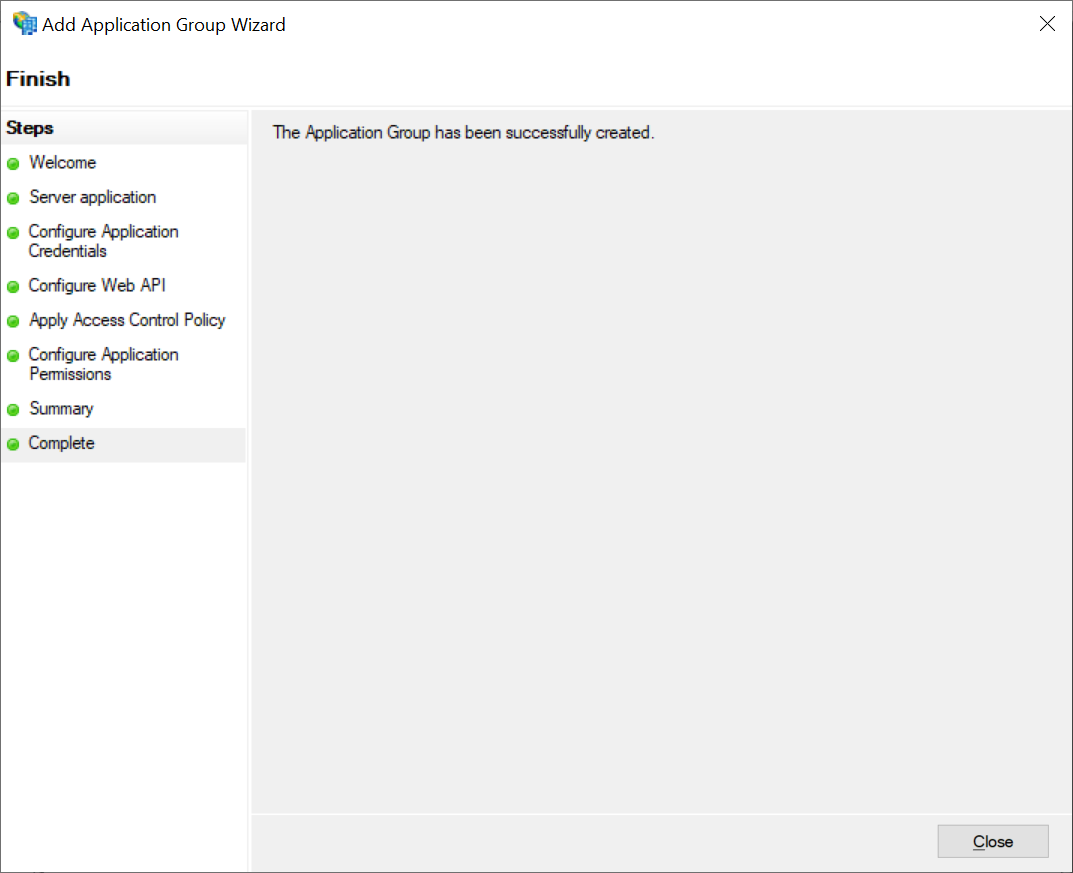
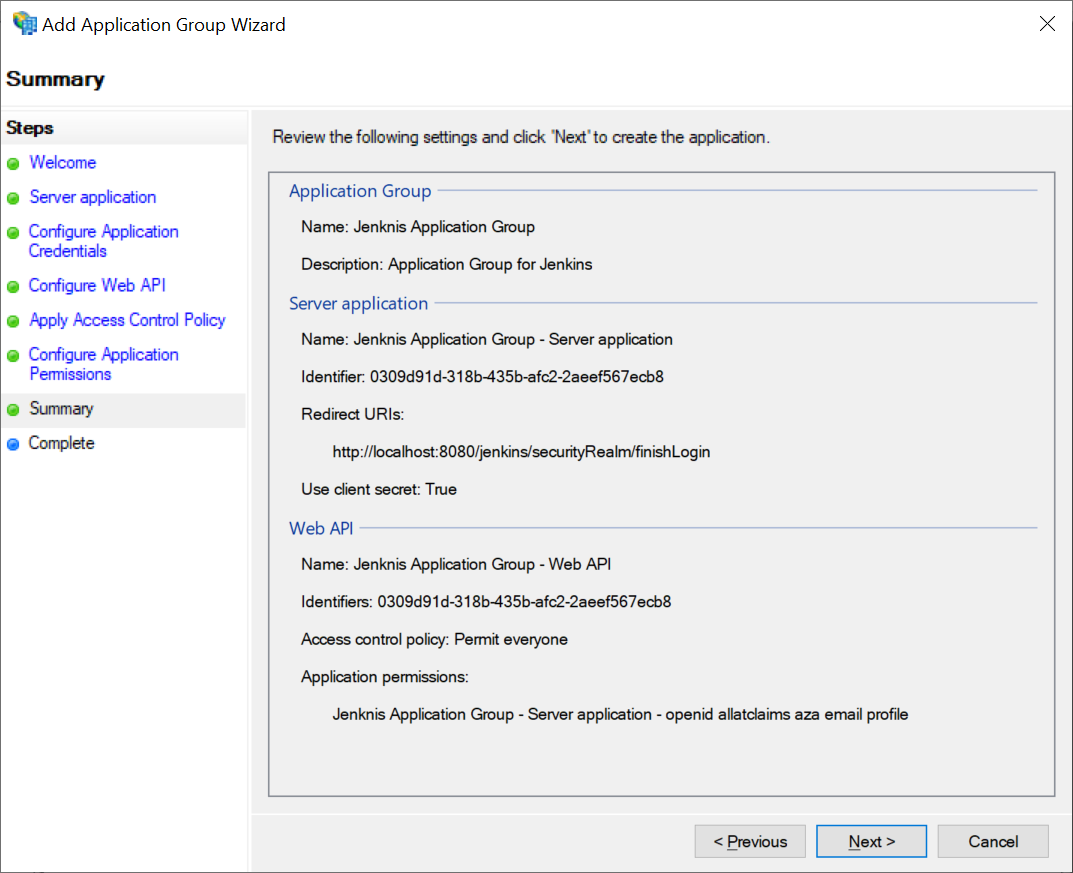
Complete the Docs

diff --git a/docs/developer/AD-FS/setup-test-instance.md b/docs/developer/AD-FS/setup-test-instance.md
@@ -37,7 +37,7 @@ This guide will walk through the setup of Windows 2022 using an ISO as it is the
 
 Congratulations, Windows Server 2022 is now installed!
 
-### Install Services
+## Install Services
 
 AD FS is not Active Directory (AD), however we will use AD as the authentication provider for AD FS so it and DNS will be installed here as well as AD FS.
 
@@ -59,29 +59,7 @@ AD FS is not Active Directory (AD), however we will use AD as the authentication
 15. The installation will now start. ![installing](setup-images/roles_installing.png)
 16. Wait for the installation to complete, you can then close the wizard. ![alt text](setup-images/roles_install-complete.png)
 
-### Configure DNS 
-
-> **Note**
-> probably not needed!
-
-
-DNS needs to be configured in order to be able to configure AD DS.
-For this example we will be using `adfs.test` as the domain.
-
-1. Launch the DNS Manager by selectting Tools -> DNS in the Server Manager. ![Launch DNS](dns-images/launch-dns-manager.png)
-2. In DNS Manager select "Action" -> "New Zone". ![Create New Zone](dns-images/new-zone.png)
-3. In the wizard click "Next" to continue. ![Wizard Start](dns-images/wizarard-start-next.png)
-4. Ensure "Primary Zone" is selected and choose "Next". ![Primary Zone option](dns-images/select-primary-zone.png)
-4. Ensure "Primary Zone" is selected and choose "Next". ![Primary Zone option](dns-images/select-primary-zone.png)
-5. Select "Forward Lookup Zone" to create the new Domain and choose "Next". ![Forward Lookup Zone](dns-images/forward-lookup-zone-option.png)
-6. In the "Zone Name" enter `adfs.test` then choose "Next". ![alt text](dns-images/zone-name.png)
-7. Choose the option to create a new File and accept the suggested name, then click "Next". ![Zone Filename option](dns-images/filename-option.png)
-8. Select the option to not allow dynamic updates and click "Next". ![Dynamic update options](dns-images/dynamic-updates.png)
-9. Select "Finish" to create the zone. ![Create the Zone](dns-images/forward-zone-finish.png).
-
-
-
-### Configure Active Directory
+## Configure Active Directory
 
 1. In Server Manager DashBoard Select the Notification flag to show the post deployment options.
 2. In the notification about the "Configuration required for Active Directory Domain Services" click "Promote this server to a domain controller" ![AD DS Promote to DC](adds-images/adds_promote-to-dc.png)
@@ -98,7 +76,11 @@ For this example we will be using `adfs.test` as the domain.
 10. The install will start, after a short while you will be signed out and Windows restarted. 
 The restart will take longer than normal when reconfiguring the system.
 
-### Configure Active Directory Federation Services
+> **Note**
+> Use the "Active Directory Users and Groups" snap in to create users and groups for testing.
+To test groups the Group Type should be a "Security Group"
+
+## Configure Active Directory Federation Services
 
 The fun part.....
 
@@ -126,14 +108,14 @@ The check should succeed (the text will become underlined), and then click "OK".
 14. The install may generate some warnings, these can most probabably be ignored![Huh](adfs-images/ADFS_post_install_warnings.png)
 Choose Close, and reboot the machine.
 
-## Create a new OpenID Connect Client in AD FS
+### Create a new OpenID Connect Client in AD FS
 
 1. Login, and start the "AD FS Management" tool. ![AD FS Management](adfs-client-images/ADFS_post-install-start-tool.png)
 2. Create a new Application Group by selecting the menu Actions -> Add Application Group. ![Create a new Application Group](adfs-client-images/ADFS_create-application-gropup.png)
 3. Enter a name and description for the group and choose "Server Application accessing a web API" before clicking "Next". ![Create Application Group Options](adfs-client-images/ADFS_create-application-group-1.png)
-4. Enter the redirect URL for the Jenkins instance you will be connected to as observed by your web browser (not the ADFS Server) this will be `${JENKINS_ROOT_URL}/securityRealm/finishLogin` (e.g. for `mvn hpi:run` this will be `http://localhost:8080/jenkins/securityRealm/finishLogin`). **Note down the client ID, you will need this to configure Jenkins later!**.  Once you have noted down the client identifier click "Next".  ![Create client and redirect URI](adfs-client-images/ADFS_create-client-and-redirect-uri.png)
+4. Enter the redirect URL for the Jenkins instance you will be connected to as observed by your web browser (not the ADFS Server) this will be `${JENKINS_ROOT_URL}/securityRealm/finishLogin` (e.g. for `mvn hpi:run` this will be `http://localhost:8080/jenkins/securityRealm/finishLogin`) and click "Add". **Note down the client ID, you will need this to configure Jenkins later!**.  Once you have noted down the client identifier click "Next".  ![Create client and redirect URI](adfs-client-images/ADFS_create-client-and-redirect-uri.png)
 5. Choose "Generate a shared secret" and record this along with the cient ID. You will need this to configure Jenkins later! Then click "Next". ![Create shared secret](adfs-client-images/ADFS_create-shared-secret.png)
-6. In Configure Web API enter the URL of your Jenkins server and click "Next". ![Configure Web API](adfs-client-images/ADFS_configure-web-api.png)
+6. In Configure Web API "Identifier" enter `client id` that was created earlier and click "Add", then "Next". ![Configure Web API](adfs-client-images/ADFS_configure-web-api.png)
 7. Check that the Access Control policy is set to Grant access to everyone, then click "Next".  ![Allow everyone to access](adfs-client-images/ADFS_access-controll-permit-everyone.png)
 8. Check the following claims and click "Next"
 * allatclaims
@@ -145,10 +127,36 @@ Choose Close, and reboot the machine.
 9. Review the options, and then click "Next". ![Review Options](adfs-images/ADFS_review-options.png)
 10. The Application group should have been created correctly and the wizard can now be closed.  ![Wizard Complete](adfs-client-images/ADFS_complete-wizard.png)
 
+#### Expose Groups as Claims
+
+1. In the AD FS Management tool, Select "Application Groups" in the tree on the left, then double click on the "Jenkins Application Group" in the main panel. ![Application Group](adfs-groups-images/ADFS_groups-application-group.png)
+2. Select the "Jenkins Application Group - Web API" entry in the "Web API" section and click "Edit". ![Edit WebAPI](adfs-groups-images/ADFS_groups-edit-web-api.png)
+3. Switch to the "Issuance Transform Rules" tab and then click "Add Rule". ![transform rules](adfs-groups-images/ADFS_groups_transform-rules-1.png)
+4. Select "Send LDAP Attributes as Claims" and click "Next". ![LDAP Claim rule](adfs-groups-images/ADFS_groups_transform-rules-2.png)
+5. Enter "Add Groups" as the rule name, and choose "Active Directory" as the `Attribute Store`. ![Rule Name and Store](adfs-groups-images/ADFS_groups_transform-rules-3.png)
+6. Use "Token-Groups - Unqualified Names" as the `LDAP Attribute` and in the `Outgoing Claim Type` enter the text "groups" (this should not match any exiting claim type) and choose Finish. ![Add Rule mapping](adfs-groups-images/ADFS_groups_transform-rules-4.png)
+7. Click "OK" to save the changes. ![Save](adfs-groups-images/ADFS_groups_transform-rules-5.png)
+8. Click "OK" to close the dialog. ![Save](adfs-groups-images/ADFS_groups_transform-rules-6.png)
+
+
+#### Fixup missing Permissions
 
 > **Note**
-> We may need to grant some extra perms with powershell.. need to check the group options.
+> even though we did everything in the UI and granted scopes, there are still some missing permissions.
+Without setting this you will have trouble authenticating (`The client 'your-client-id' is forbidden to access the resource 'http://schemas.microsoft.com/ws/2009/12/identityserver/selfscope'`) or will be missing profile information.
 
+<!-- see https://community.ibm.com/community/user/security/blogs/laurent-lapiquionne1/2020/07/21/how-to-configure-igi-service-center-to-authent --> 
+
+Start powershell and run the following script: (enter the client ID for the client we previously created when prompted)
+
+```powershell
+$clientid = Read-Host -Prompt 'Input your Client ID we created earlier for Jenkins'
+Grant-AdfsApplicationPermission -ClientRoleIdentifier $clientid -ServerRoleIdentifier http://schemas.microsoft.com/ws/2009/12/identityserver/selfscope
+Get-AdfsApplicationPermission -ServerRoleIdentifiers "http://schemas.microsoft.com/ws/2009/12/identityserver/selfscope"
+$objId=Get-AdfsApplicationPermission -ServerRoleIdentifiers "http://schemas.microsoft.com/ws/2009/12/identityserver/selfscope" | Where-Object -Property ClientRoleIdentifier -eq $clientid | Select -ExpandProperty "ObjectIdentifier"
+Set-AdfsApplicationPermission -TargetIdentifier $objId -AddScope ('openid', 'aza')
+
+```
 
 ## Configure Jenkins to use this client
 
@@ -169,5 +177,3 @@ The resulting trust store can then be used by passing the `javax.net.ssl.trustSt
 5. The "Full name field name" field should be set to `something`
 6. The "Email field name" should be set to `something`
 7. The "Groups field name" should be set to `something`
-
-XXX TODO missing scope / permission for `aza` and groups are not set....
